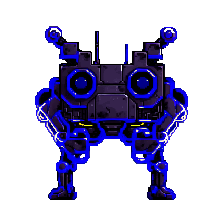
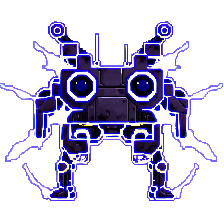
amelioration de l'animation du boss

Changed region(s): [[0.0, 0.0938, 1.0, 0.9062], [0.9062, 0.6562, 0.9688, 0.75], [0.0, 0.6562, 0.0938, 0.7188]]

diff --git a/src/boss.rs b/src/boss.rs
@@ -210,8 +210,8 @@ fn spawn_boss(
     let window = windows.single();
     let half_h = window.height() / 2.0;
 
-    // Position de départ : en bas au centre, au niveau de la planète
-    let start_y = -(half_h + 100.0);
+    // Position de départ : juste au-dessus du centre de l'écran
+    let start_y = 50.0;
 
     // Son d'entrée (boss_start.ogg, synchronisé avec l'animation)
     commands.spawn(AudioBundle {
@@ -224,7 +224,7 @@ fn spawn_boss(
             texture: asset_server.load("images/boss/idle/frame000.png"),
             sprite: Sprite {
                 custom_size: Some(Vec2::splat(BOSS_SPRITE_SIZE)),
-                color: Color::rgba(1.0, 1.0, 1.0, 0.0),
+                color: Color::WHITE,
                 ..default()
             },
             transform: Transform {
@@ -258,11 +258,10 @@ fn boss_intro(
     time: Res<Time>,
     mut commands: Commands,
     asset_server: Res<AssetServer>,
-    mut boss_q: Query<(&mut Boss, &mut Transform, &mut Sprite)>,
+    mut boss_q: Query<(&mut Boss, &mut Transform), Without<Player>>,
     mut difficulty: ResMut<Difficulty>,
-    windows: Query<&Window>,
 ) {
-    for (mut boss, mut transform, mut sprite) in boss_q.iter_mut() {
+    for (mut boss, mut transform) in boss_q.iter_mut() {
         if boss.state != BossState::Entering {
             continue;
         }
@@ -273,11 +272,9 @@ fn boss_intro(
         // Ease-in-out pour un mouvement fluide
         let eased = progress * progress * (3.0 - 2.0 * progress);
 
-        let window = windows.single();
-        let half_h = window.height() / 2.0;
-        let start_y = -(half_h + 100.0);
+        let start_y = 50.0;
 
-        // Position de base : monte de la planète vers la position cible
+        // Position de base : du centre vers la position cible
         let base_y = start_y + (BOSS_TARGET_Y - start_y) * eased;
 
         // Spirale : le rayon diminue à mesure que le boss approche sa position
@@ -290,18 +287,14 @@ fn boss_intro(
         transform.translation.x = offset_x;
         transform.translation.y = base_y + offset_y;
 
-        // Scale : petit → taille normale
+        // Scale : minuscule → taille normale (l'effet d'arrivée est le zoom progressif)
         let scale =
             BOSS_INTRO_START_SCALE + (BOSS_INTRO_END_SCALE - BOSS_INTRO_START_SCALE) * eased;
         transform.scale = Vec3::splat(scale);
 
-        // Fade-in
-        sprite.color.set_a(eased);
-
         // Fin de l'intro → passage en Phase 1 + lancement musique boss
         if boss.anim_timer.finished() {
             boss.state = BossState::Active(BossPhaseId::Phase1);
-            sprite.color.set_a(1.0);
             transform.scale = Vec3::splat(BOSS_INTRO_END_SCALE);
             transform.translation.x = 0.0;
             transform.translation.y = BOSS_TARGET_Y;
